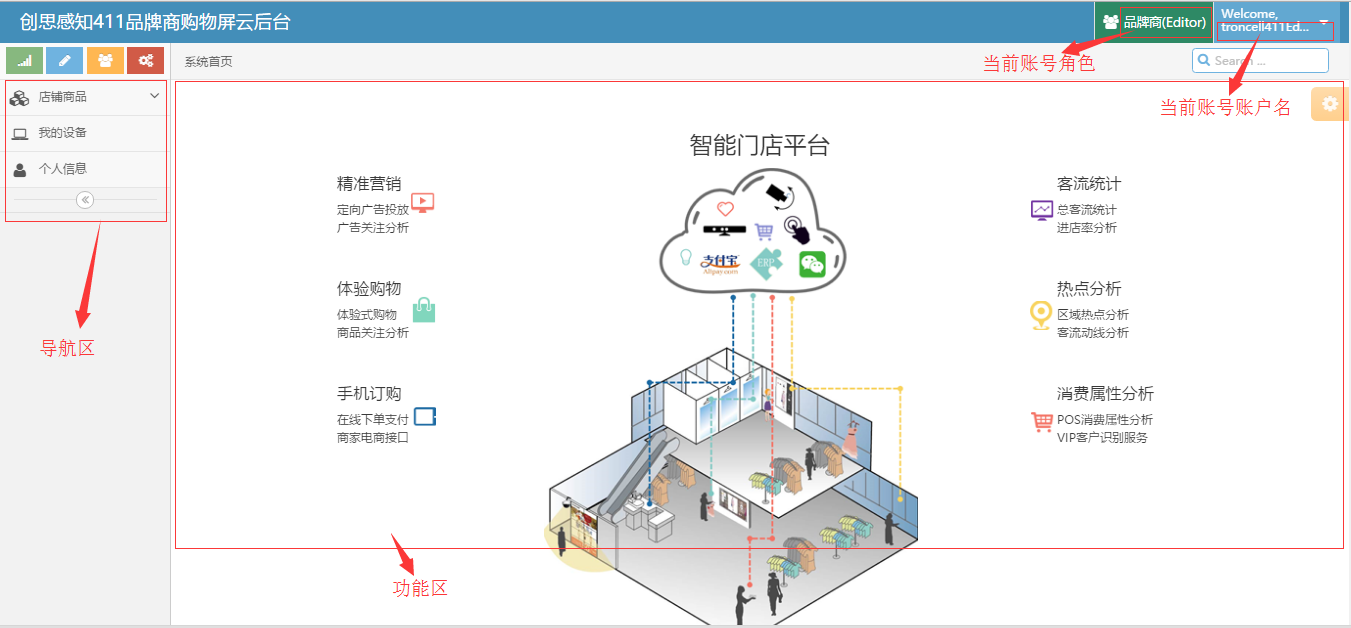
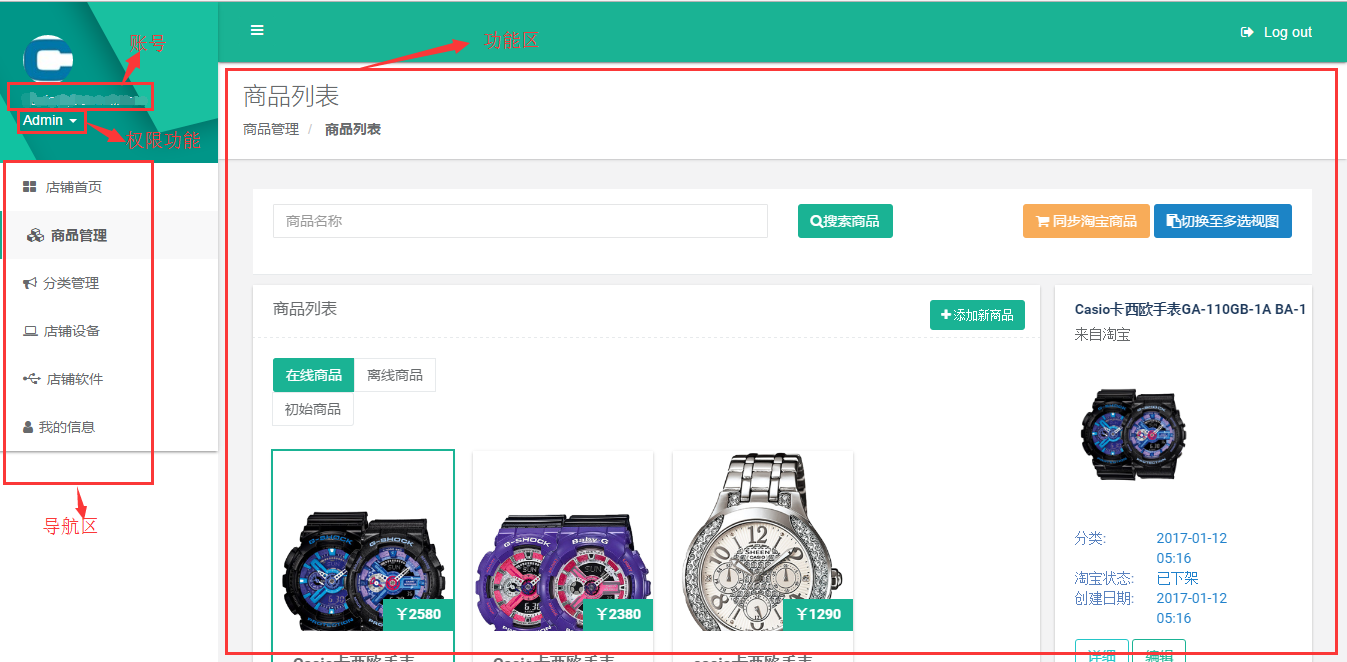
new store for 3.0

diff --git a/store/source/conf - 副本.py b/store/source/conf - 副本.py
@@ -24,7 +24,7 @@ import os
 # -- General configuration ------------------------------------------------
 
 # If your documentation needs a minimal Sphinx version, state it here.
-needs_sphinx = '1.0'
+#needs_sphinx = '1.0'
 
 # Add any Sphinx extension module names here, as strings. They can be
 # extensions coming with Sphinx (named 'sphinx.ext.*') or your custom

diff --git a/store/source/tutorials/brand.rst b/store/source/tutorials/brand.rst
@@ -33,14 +33,12 @@ step1.正确输入账号、密码;step.2点击“登录”按钮。
 
 功能权限概叙 
 -------------
-   1. 品类管理：对商品的品类进行增删改查操作。
+   1. 品类管理：大屏端，所示商品可按照“品类”进行分类查看，点击对应品类按钮，大屏上将只展示对应的商品。后台此项操作可对商品的品类进行增删改查。
    #. 同步淘宝商品：一键同步淘宝平台的商品到当前云台并上线展示在大屏端。
    #. 手动添加商品：手动添加未获取到的淘宝商品到大屏端展示。
    #. 下线购物屏商品：将购物屏上展示的部分商品下线。
-   #. 修改大屏商品信息：可对大屏上的商品信息（名称、图片、描述等）进行修改。
-   #. 商品查看：根据商品状态、商品来源、淘宝状态筛选项定向查询对应商品。
-   #. 我的设备：查看当前账号对应设备相关信息。
-   #. 个人信息：修改编辑个人信息、密码。
+   #. 修改大屏商品信息：可对大屏上的商品信息（名称、图片、分类、描述等）进行修改。
+
  
 
 详细功能及操作介绍 
@@ -48,37 +46,38 @@ step1.正确输入账号、密码;step.2点击“登录”按钮。
 
 1.品类管理
 ^^^^^^^^^^^^
-     点击菜单项 店铺商品/品类管理，右侧的功能区展示界面即为品类管理界面。
-       a. 添加商品类别：点击当前界面右上角“添加商品类别”按钮，页面跳转至新增商品类别界面，输入类别名称（图片链接和描述选填），点击保存按钮，完成类别添加。
+     点击菜单项 分类管理，右侧的功能区展示界面即为品类管理界面。
+       a. 添加商品类别：点击当前界面右上角“添加新类别”按钮，页面跳转至新增商品类别界面，输入类别名称、选择“图片”(分类列表内显示的图片，如下图所示)和“icon”（分类的按钮图片，如下图所示），父分类可不选择，勾选“是否在大屏显示”，点击“确认添加”按钮，完成类别添加。
        b. 编辑商品类别：点击操作栏“编辑”按钮，页面跳转至编辑页，修改名称后点击保存，完成编辑操作。
-       c. 删除商品类别：点击操作栏“删除”按钮，并确定，即可删除当前商品类别。
-       d. 查询商品类别：在检索输入框内输入想要查询的类别名称，并单击检索，可定向查询对应的商品类别。      
+        
 
 品类管理主界面
 
-.. image:: _static/品类.png 
+.. image:: _static/1类别主界面.png 
 
 添加商品类别界面
 
-.. image:: _static/新增分类.png 
+.. image:: _static/1添加新分类.png 
 
 
 2.同步淘宝商品
-^^^^^^^^^^^^
-   点击菜单项 店铺商品/商品管理，右侧的功能区展示界面即为商品管理界面。点击页面右侧的“同步淘宝商品”按钮并“确认”，
-   淘宝平台的商品即呈现在“初始商品”一栏（如果为空，说明当前数据已是最新），选择对应商品，点击上线按钮“↑”（或选择“表格视图”模式勾选商品，点击“一键申请上线”）。
+^^^^^^^^^^^^^^^^^^^
+   点击菜单项 商品管理，右侧的功能区展示界面即为商品管理界面。
+       a. 选择初始商品。
+       #. 点击页面右侧的“同步淘宝商品”按钮，淘宝平台新上架的商品即会呈现在“初始商品”一栏（如果为空，说明当前数据已是最新）。
+       #. 点击“切换至多选视图”。
+       #. 点击对应想要上架的商品（可多选）。
+       #. 选择后点击页面右侧的“批量上线”按钮，商品上线完成（上线后的商品将显示在“在线商品”一栏）。
 
 同步淘宝商品
 
-.. image:: _static/同步.png
+.. image:: _static/1商品上线1.png
 
-表格模式同步
-
-.. image:: _static/同步2.png
+.. image:: _static/1商品上线2.png
 
 3.手动添加商品
 ^^^^^^^^^^^^^^^^
-   点击菜单项 店铺商品/商品管理，右侧的功能区展示界面即为商品管理界面。点击页面右侧的“添加商品”按钮，
+   点击菜单项 商品管理，右侧的功能区展示界面即为商品管理界面。点击页面右侧的“添加新商品”按钮，
    页面跳转至“添加商品”界面，完成商品相关信息后点击保存按钮完成添加。
 
 .. attention:: 二维码链接需真实有效，用户使用“手机淘宝”扫码可进入到对应淘宝商品链接。
@@ -87,68 +86,44 @@ step1.正确输入账号、密码;step.2点击“登录”按钮。
 
 添加商品界面入口
 
-.. image:: _static/添加商品1.png
+.. image:: _static/1添加商品1.png
 
 添加商品界面
 
-.. image:: _static/添加商品.png
+.. image:: _static/1添加商品2.png
 
 
 4.下线购物屏商品
 ^^^^^^^^^^^^^^^^^
-   点击菜单项 店铺商品/商品管理，右侧的功能区展示界面即为商品管理界面。
-     1. 在“在线商品”一栏检索输入框中输入商品名称或商品itemid，查询定位到对应的商品。
-     2. 点击商品下方的下线按钮“↓”将产品下线，重启软件，商品将不再显示。
+   点击菜单项 商品管理，右侧的功能区展示界面即为商品管理界面。
+     a. 在“在线商品”一栏检索输入框中输入对应商品名称，查询定位到对应的商品。
+     b. 点击“切换至多选视图”。
+     c. 点击选择商品。
+     d. 点击“批量下线”按钮。
+     e. 重启软件，商品将不再显示。
 
 商品下线
 
-.. image:: _static/修改信息1.png
+.. image:: _static/1下线商品1.png
 
-4.修改大屏商品信息
+.. image:: _static/1下线商品2.png
+
+5.修改大屏商品信息
 ^^^^^^^^^^^^^^^^^^^
-   点击菜单项 店铺商品/商品管理，右侧的功能区展示界面即为商品管理界面。
-     1. 在“在线商品”一栏检索输入框中输入商品名称或商品itemid，查询定位到对应的商品。
-     2. 点击商品下方的下线按钮“↓”将产品下线（修改商品信息需先将商品下线）。
-     3. 在“离线商品”一栏找到需要修改的商品，点击商品下方的“编辑”按钮，页面跳转至编辑页。
-     4. 编辑页选择“自定义信息”项，在对应输入框输入修改的信息后点击“保存”，页面返回“离线商品”页面。
-     5. 点击商品下方的上线按钮“↑”，将商品上线，信息修改完成。
+   点击菜单项 商品管理，右侧的功能区展示界面即为商品管理界面。
+     a. 在“在线商品”一栏检索输入框中输入商品名称，查询定位到对应的商品。
+     b. 点击商品图。
+     c. 点击展示图下“编辑”按钮，页面跳转至编辑界面。
+     d. 编辑页选择“平台自定义信息”项，在对应输入框输入修改的信息后点击“保存”（不变的信息无需填写）。
+     e. 重启软件修改即完成。
 
 
 修改信息1
 
-.. image:: _static/修改信息1.png
+.. image:: _static/1商品编辑1.png
 
 修改信息2
 
-.. image:: _static/修改信息2.png
+.. image:: _static/1商品编辑2.png
 
-修改信息3
-
-.. image:: _static/修改信息4.png
-
-修改信息4
-
-.. image:: _static/修改信息5.png
-
-.. attention:: 淘宝上的部分商品可能未进行分类（未分类的商品点开大图仅显示一张，而不会有同类商品显示在后面），需要手动添加分类（方法同上）。
-
-5.我的设备
-^^^^^^^^^^^^
-   查看当前品牌商对应大屏设备信息。
-
-.. image:: _static/设备.png
-
-
-
-6.个人信息
-^^^^^^^^^^^^
-  修改当前账号个人信息和密码。
-
-修改个人信息
-
-.. image:: _static/个人信息.png
-
-修改密码
-
-.. image:: _static/修改密码.png
 
